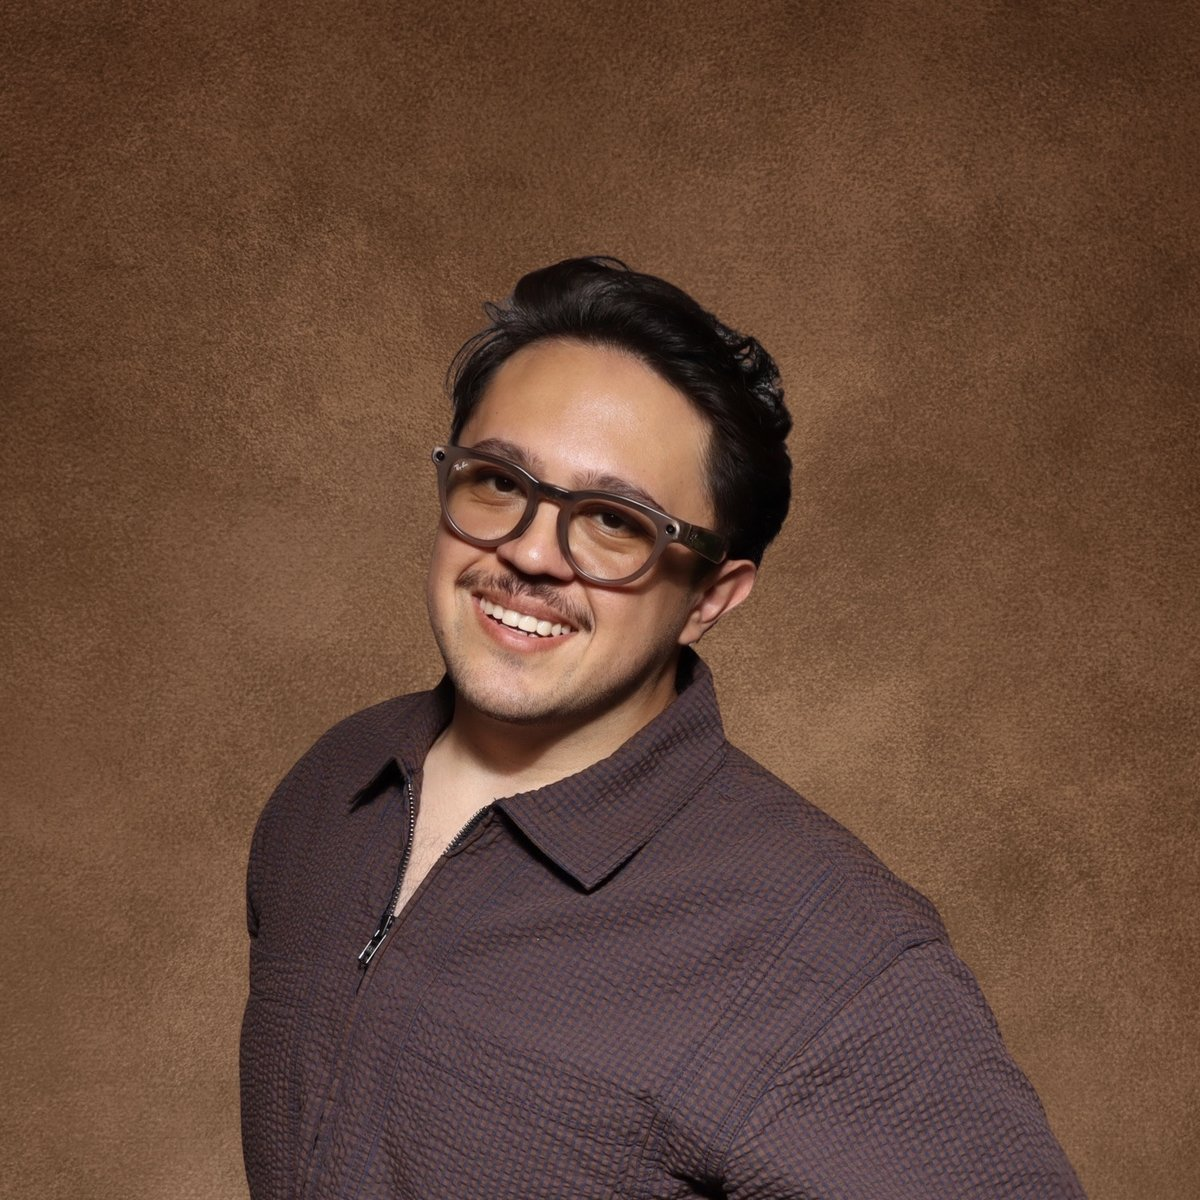
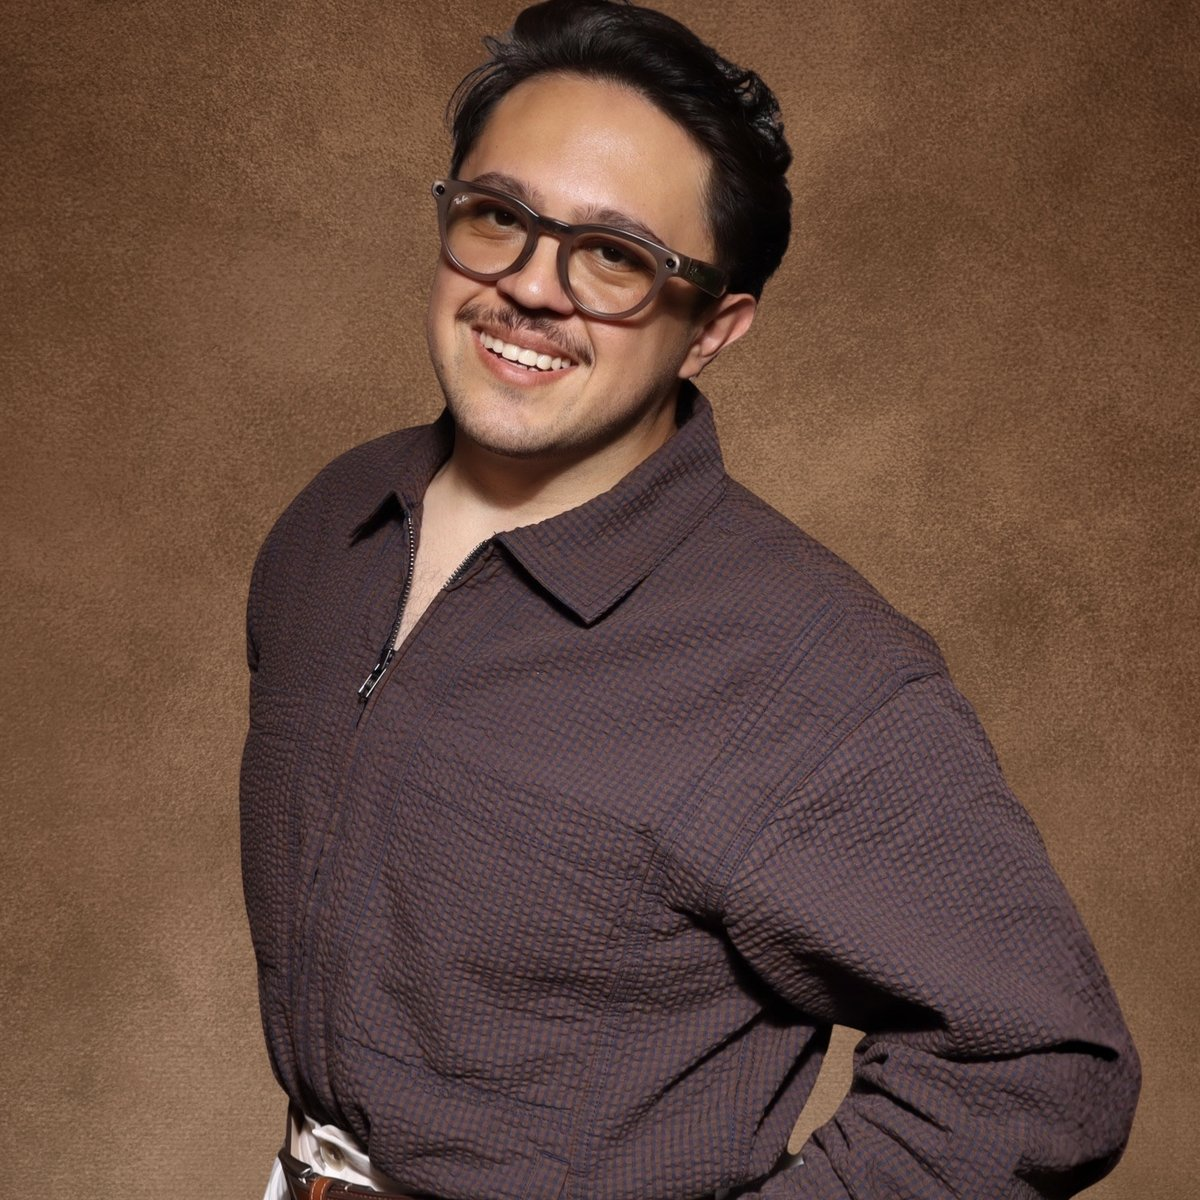
Homepage polish: full Luma embed, flyer link, live reviews carousel
- Luma event embed now sits directly on the page at full height
  (850px, borderless, no inner scroll window).
- TechFest flyer is a tap-through to newmexicotechweek.com/events
  with a details-and-tickets callout.
- Testimonials render as a horizontal scroll-snap carousel and are
  served live from the reviews Worker again: the form posts
  directly (anonymous supported) and new reviews appear instantly.
  KV seeded with the three letter excerpts + Hannah Cruz so the
  live list matches the static fallback.
- Portrait re-cropped so the top of the head meets the top of the
  circle (contiguous-dark-run hair detection at y=410).

diff --git a/index.html b/index.html
@@ -147,25 +147,25 @@
     <p style="color:var(--muted);margin:-4px 0 18px;font-size:0.95rem;max-width:62ch">
       Where to find me next — RSVP below, and mark your calendar for TechFest.
     </p>
-    <div class="card" style="display:flex;flex-direction:column;align-items:center;gap:18px">
-      <iframe
-        src="https://luma.com/embed/event/evt-3SXOvKyWCKFM30j/simple"
-        title="Upcoming event RSVP"
-        style="width:100%;max-width:640px;height:450px;border:1px solid var(--border);border-radius:12px;background:var(--card)"
-        frameborder="0"
-        allow="fullscreen; payment"
-        aria-hidden="false"
-        tabindex="0"
-      ></iframe>
-    </div>
-    <a class="card" href="/assets/events/techfest-2026-promo.png" target="_blank" rel="noopener"
-       style="display:block;margin-top:14px;padding:14px;text-decoration:none">
+    <iframe
+      src="https://luma.com/embed/event/evt-3SXOvKyWCKFM30j/simple"
+      title="Upcoming event RSVP"
+      style="display:block;width:100%;max-width:720px;margin:0 auto;height:850px;border:0;border-radius:12px;background:transparent"
+      frameborder="0"
+      allow="fullscreen; payment"
+      aria-hidden="false"
+      tabindex="0"
+      scrolling="no"
+    ></iframe>
+    <a href="https://newmexicotechweek.com/events" target="_blank" rel="noopener"
+       style="display:block;margin-top:20px;text-decoration:none"
+       aria-label="TechFest 2026 — details and tickets on the NM Tech Week site">
       <img src="/assets/events/techfest-2026-promo.png"
            alt="TechFest 2026 promotional flyer — October 29–30 during New Mexico Tech Week"
            loading="lazy"
-           style="display:block;width:100%;max-width:640px;margin:0 auto;border-radius:10px" />
-      <span style="display:block;text-align:center;margin-top:10px;color:var(--muted);font-size:0.85rem">
-        TechFest 2026 · part of NM Tech Week · tap to view full size
+           style="display:block;width:100%;max-width:640px;margin:0 auto;border-radius:14px;box-shadow:0 10px 30px rgba(35,32,26,0.18)" />
+      <span style="display:block;text-align:center;margin-top:10px;color:var(--accent);font-weight:600;font-size:0.9rem">
+        TechFest 2026 · part of NM Tech Week — tap for details &amp; tickets ↗
       </span>
     </a>
 
@@ -221,18 +221,17 @@
         </div>
 
         <div class="review-form-actions">
-          <button class="btn primary" type="submit">Send for review</button>
+          <button class="btn primary" type="submit">Post review</button>
           <button class="btn" type="button" id="review-cancel">Cancel</button>
         </div>
         <p class="review-form-note">
-          <strong>Heads up:</strong> When you click <em>Send for review</em>, your default email app
-          will open with everything pre-filled — just hit Send. Rudy reviews submissions before
-          publishing them here.
+          <strong>Heads up:</strong> Your review posts live to this page the moment you click
+          <em>Post review</em> — anonymous is totally fine. Be kind, be honest, no links or spam.
         </p>
+        <p class="review-form-error" id="review-error" role="alert"></p>
       </form>
       <div class="review-success" id="review-success">
-        Thanks — your email app should have opened. If not, email
-        <a href="mailto:parrarudy1media@gmail.com">parrarudy1media@gmail.com</a> directly with your review.
+        Thanks — your review is live. Scroll up to see it.
       </div>
     </div>
 
@@ -363,9 +362,30 @@
         });
       }
 
-      // Load reviews
-      fetch('/assets/reviews.json', { cache: 'no-cache' })
-        .then(r => r.ok ? r.json() : { reviews: [] })
+      const errorEl = document.getElementById('review-error');
+      function showError(msg) {
+        if (!errorEl) return;
+        errorEl.textContent = msg || '';
+        errorEl.classList.toggle('shown', !!msg);
+      }
+
+      // Resolve the Worker URL from /assets/reviews-config.json. If missing or
+      // still a placeholder, fall back to the static reviews.json (read-only).
+      const workerUrlPromise = fetch('/assets/reviews-config.json', { cache: 'no-cache' })
+        .then(r => r.ok ? r.json() : null)
+        .then(cfg => {
+          const u = cfg && cfg.workerUrl;
+          return (u && !u.includes('YOUR-WORKER')) ? u.replace(/\/$/, '') : null;
+        })
+        .catch(() => null);
+
+      // Load reviews: prefer the Worker, fall back to the static file.
+      workerUrlPromise.then(workerUrl => {
+        const url = workerUrl ? workerUrl + '/reviews' : '/assets/reviews.json';
+        return fetch(url, { cache: 'no-cache' })
+          .then(r => r.ok ? r.json() : Promise.reject())
+          .catch(() => fetch('/assets/reviews.json').then(r => r.ok ? r.json() : { reviews: [] }).catch(() => ({ reviews: [] })));
+      })
         .then(data => renderReviews(Array.isArray(data.reviews) ? data.reviews : []))
         .catch(() => renderReviews([]));
 
@@ -373,6 +393,7 @@
       toggleBtn.addEventListener('click', () => {
         const isOpen = form.classList.toggle('open');
         toggleBtn.textContent = isOpen ? 'Hide form' : 'Write a review';
+        showError('');
         if (isOpen) {
           success.classList.remove('shown');
           form.scrollIntoView({ behavior: 'smooth', block: 'nearest' });
@@ -381,6 +402,7 @@
       cancelBtn.addEventListener('click', () => {
         form.classList.remove('open');
         toggleBtn.textContent = 'Write a review';
+        showError('');
       });
 
       // Show/hide name fields based on radio
@@ -393,16 +415,17 @@
       whoRadios.forEach(r => r.addEventListener('change', syncNameFields));
       syncNameFields();
 
-      // Submit: build mailto + open
-      form.addEventListener('submit', (e) => {
+      // Submit: POST to the reviews Worker; the new review appears instantly.
+      form.addEventListener('submit', async (e) => {
         e.preventDefault();
+        showError('');
 
         // Honeypot — silently drop if bot filled it
         if (form.querySelector('input[name="website"]').value) return;
 
         const fd = new FormData(form);
         const isAnon = fd.get('who') === 'anonymous';
-        const name = isAnon ? 'Anonymous' : (fd.get('name') || '').toString().trim();
+        const name = isAnon ? '' : (fd.get('name') || '').toString().trim();
         const title = (fd.get('title') || '').toString().trim();
         const company = (fd.get('company') || '').toString().trim();
         const connection = (fd.get('connection') || '').toString().trim();
@@ -413,45 +436,73 @@
           return;
         }
 
-        const subject = '[therudyparra.com] New review from ' + (name || 'Anonymous');
-        const lines = [
-          'Name:        ' + (name || 'Anonymous'),
-        ];
-        if (!isAnon) {
-          if (title) lines.push('Title:       ' + title);
-          if (company) lines.push('Company:     ' + company);
+        const workerUrl = await workerUrlPromise;
+        if (!workerUrl) {
+          showError("Reviews aren't accepting submissions right now — please try again later.");
+          return;
         }
-        lines.push('Connection:  ' + connection);
-        lines.push('');
-        lines.push('Review:');
-        lines.push('--------');
-        lines.push(review);
-        lines.push('');
-        lines.push('---');
-        lines.push('Submitted via therudyparra.com');
-        lines.push('');
-        lines.push('To publish, add to assets/reviews.json:');
-        lines.push(JSON.stringify({
-          anonymous: isAnon,
-          name: isAnon ? undefined : name,
-          title: isAnon ? undefined : (title || undefined),
-          company: isAnon ? undefined : (company || undefined),
-          connection: connection,
-          review: review
-        }, null, 2));
 
-        const mailto = 'mailto:parrarudy1media@gmail.com'
-          + '?subject=' + encodeURIComponent(subject)
-          + '&body=' + encodeURIComponent(lines.join('\n'));
+        const submitBtn = form.querySelector('button[type="submit"]');
+        const prevLabel = submitBtn.textContent;
+        submitBtn.disabled = true;
+        submitBtn.textContent = 'Posting…';
 
-        window.location.href = mailto;
+        try {
+          const r = await fetch(workerUrl + '/review', {
+            method: 'POST',
+            headers: { 'Content-Type': 'application/json' },
+            body: JSON.stringify({
+              anonymous: isAnon,
+              name: isAnon ? undefined : name,
+              title: isAnon ? undefined : (title || undefined),
+              company: isAnon ? undefined : (company || undefined),
+              connection,
+              review,
+            }),
+          });
+          const data = await r.json().catch(() => ({}));
+          if (!r.ok) {
+            showError((data && data.error) || (r.status === 429
+              ? 'Too many reviews from your network this hour — try again later.'
+              : 'Sorry, that did not post — please try again in a minute.'));
+            return;
+          }
 
-        form.classList.remove('open');
-        toggleBtn.textContent = 'Write a review';
-        success.classList.add('shown');
-        form.reset();
-        syncNameFields();
-        success.scrollIntoView({ behavior: 'smooth', block: 'nearest' });
+          // Prepend the new review card so the submitter sees it immediately.
+          const next = data.review || { anonymous: isAnon, name, title, company, connection, review };
+          const card = document.createElement('div');
+          card.className = 'review';
+          const author = next.anonymous ? 'Anonymous' : (next.name || 'Unnamed');
+          const metaParts = [];
+          if (!next.anonymous) {
+            if (next.title) metaParts.push(next.title);
+            if (next.company) metaParts.push(next.company);
+          }
+          const meta = metaParts.join(' · ');
+          card.innerHTML =
+            '<span class="review-quote" aria-hidden="true">&ldquo;</span>' +
+            '<p class="review-body">' + esc(next.review) + '</p>' +
+            '<div class="review-attr">' +
+              '<span class="review-name">' + esc(author) + '</span>' +
+              (meta ? '<span class="review-meta">' + esc(meta) + '</span>' : '') +
+              (next.connection ? '<span class="review-connection">' + esc(next.connection) + '</span>' : '') +
+            '</div>';
+          empty.style.display = 'none';
+          list.insertBefore(card, list.firstChild);
+          list.scrollTo({ left: 0, behavior: 'smooth' });
+
+          form.classList.remove('open');
+          toggleBtn.textContent = 'Write a review';
+          success.classList.add('shown');
+          form.reset();
+          syncNameFields();
+          success.scrollIntoView({ behavior: 'smooth', block: 'nearest' });
+        } catch (err) {
+          showError("Couldn't reach the server — please check your connection and try again.");
+        } finally {
+          submitBtn.disabled = false;
+          submitBtn.textContent = prevLabel;
+        }
       });
     })();
   </script>

diff --git a/styles.css b/styles.css
@@ -2132,3 +2132,27 @@ h2.section-title,
 /* Light text on the terracotta primary button/gradients (was light-on-purple) */
 .btn.primary { color: #FBF7EF; }
 .brand-mark { color: #FBF7EF; }
+
+/* ===== Testimonials — horizontal scroll-snap carousel ===== */
+.reviews-stack {
+  display: flex;
+  flex-direction: row;
+  gap: 14px;
+  overflow-x: auto;
+  overflow-y: hidden;
+  scroll-snap-type: x mandatory;
+  -webkit-overflow-scrolling: touch;
+  scrollbar-width: thin;
+  scrollbar-color: var(--border-strong) transparent;
+  padding: 4px 0 12px;
+}
+.reviews-stack::-webkit-scrollbar { height: 8px; }
+.reviews-stack::-webkit-scrollbar-track { background: transparent; }
+.reviews-stack::-webkit-scrollbar-thumb { background: var(--border-strong); border-radius: 4px; }
+.reviews-stack .review {
+  flex: 0 0 min(85%, 400px);
+  scroll-snap-align: start;
+  display: flex;
+  flex-direction: column;
+}
+.reviews-stack .review .review-body { flex: 1; }
